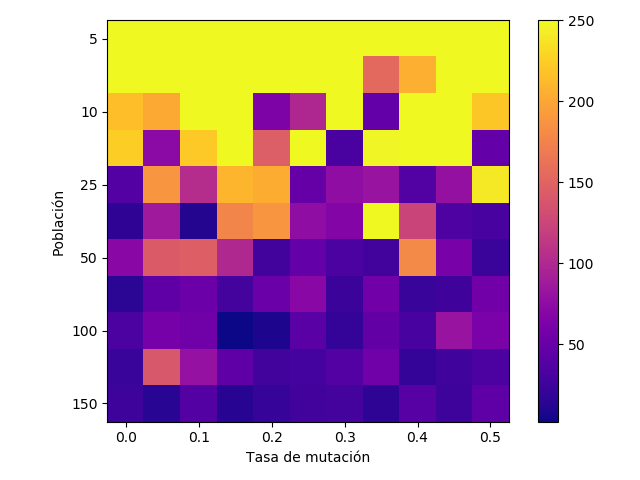
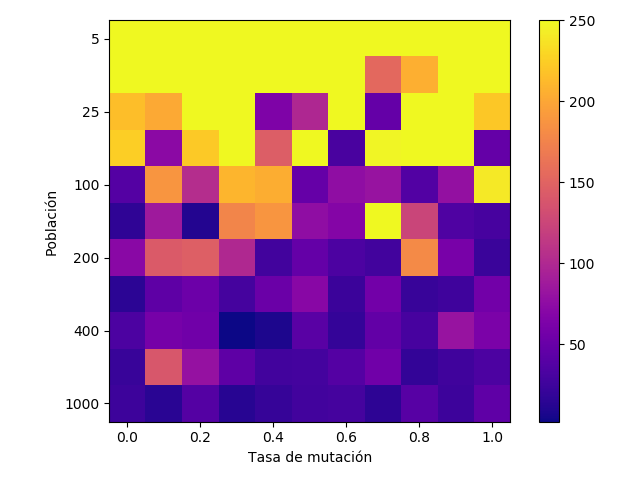
final

diff --git a/test.py b/test.py
@@ -1,0 +1,31 @@
+a = [[250, 250, 250, 250, 250, 250, 250, 250, 250, 250, 250],
+     [250, 250, 250, 250, 250, 250, 250, 155, 206, 250, 250],
+     [216, 202, 250, 250, 64, 99, 250, 48, 250, 250, 221],
+     [225, 73, 222, 250, 146, 250, 32, 248, 250, 250, 48],
+     [38, 188, 104, 210, 205, 49, 76, 82, 37, 79, 241],
+     [17, 87, 11, 177, 188, 76, 68, 250, 125, 35, 31],
+     [72, 143, 147, 100, 28, 48, 33, 28, 181, 61, 23],
+     [15, 44, 53, 30, 52, 71, 24, 57, 22, 26, 57],
+     [33, 60, 56, 2, 8, 41, 20, 47, 31, 82, 63],
+     [22, 140, 80, 44, 28, 29, 38, 56, 19, 27, 33],
+     [25, 14, 38, 13, 21, 28, 30, 16, 40, 25, 45]]
+
+
+
+import matplotlib.pyplot as plt
+
+fig, ax = plt.subplots()
+
+plt.imshow(a, cmap='plasma', origin='upper')
+plt.xlabel('Tasa de mutación')
+plt.ylabel('Población')
+plt.colorbar()
+
+mutation_rates = [0.0, 0.0, 0.2, 0.4, 0.6, 0.8, 1.0]
+pop_sizes = [0, 5, 25, 100, 200, 400, 1000]
+
+ax.set_xticklabels(mutation_rates)
+ax.set_yticklabels(pop_sizes)
+
+plt.show()
+
